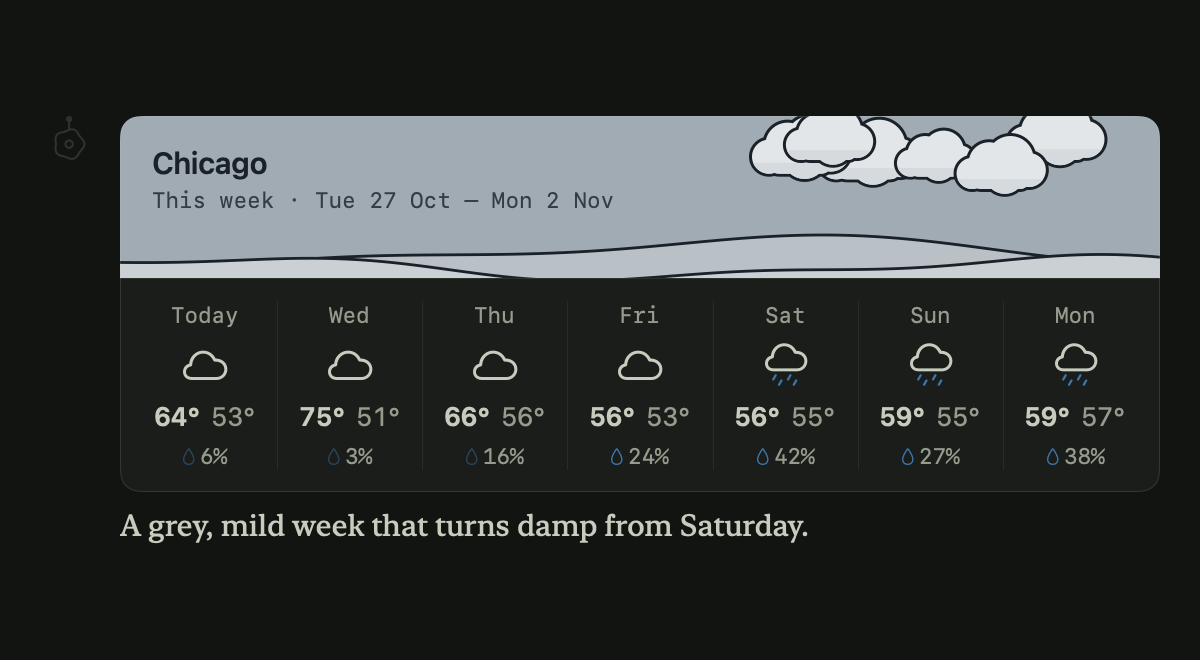
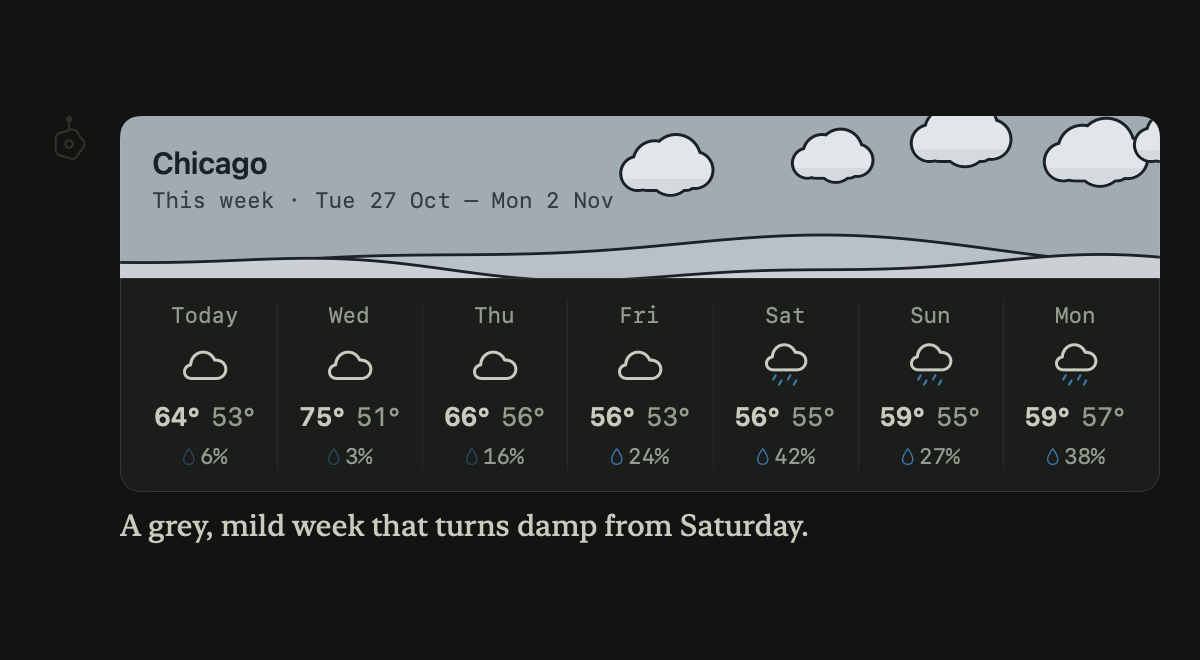
F36: weather card in the tour, AM/PM times on the card

Changed region(s): [[0.4933, 0.1515, 0.9867, 0.303]]

diff --git a/EnigmaTests/WeatherCardTests.swift b/EnigmaTests/WeatherCardTests.swift
@@ -63,7 +63,7 @@ final class WeatherCardTests: XCTestCase {
     XCTAssertEqual([temperature, feelsLike, high, low], [63.1, 62.9, 63.7, 52.8])
     XCTAssertEqual(rainChance, 6)
     XCTAssertEqual(wind, 6.0)
-    XCTAssertEqual(hours.map(\.time), ["16:00", "17:00", "18:00", "19:00", "20:00", "21:00"])
+    XCTAssertEqual(hours.map(\.time), ["4 PM", "5 PM", "6 PM", "7 PM", "8 PM", "9 PM"])
     XCTAssertEqual(card.speed(wind), "6 mph")
     XCTAssertEqual(card.accessibilityLabel, "Chicago, 63 degrees, overcast, high 64, low 53")
   }
@@ -105,8 +105,8 @@ final class WeatherCardTests: XCTestCase {
     XCTAssertEqual(rainChance, 3)
     XCTAssertEqual(amount, 0)
     XCTAssertEqual(wind, 11.0)
-    XCTAssertEqual(sunset, "17:49")
-    XCTAssertEqual(hours.map(\.time), ["06:00", "09:00", "12:00", "15:00", "18:00", "21:00"],
+    XCTAssertEqual(sunset, "5:49 PM")
+    XCTAssertEqual(hours.map(\.time), ["6 AM", "9 AM", "12 PM", "3 PM", "6 PM", "9 PM"],
                    "The forecast's 168 hours cover tomorrow's strip")
     XCTAssertTrue(card.accessibilityLabel.hasPrefix("Chicago, Tomorrow, Wed 28 Oct, overcast, high 75, low 51"))
   }
@@ -425,6 +425,26 @@ final class WeatherCardTests: XCTestCase {
     XCTAssertEqual(chat.messages.last?.weatherCards?.count, 1)
     _ = chat.stopStreaming()
     await engine.release()
+  }
+
+  /// The tour's weather stop shows a card above its example reply, and the character dresses for it.
+  @MainActor
+  func testTheToursWeatherReplyShowsACard() async throws {
+    let root = FileManager.default.temporaryDirectory.appending(path: "WeatherTour-\(UUID())")
+    defer { try? FileManager.default.removeItem(at: root) }
+    let chat = LocalChatViewModel(
+      engine: LlamaCPPModelEngine(installationStore: LocalModelInstallationStore(modelsDirectory: root.appending(path: "models"))),
+      sessionStore: ChatSessionStore(applicationSupportDirectory: root), nativeToolsEnabled: false)
+    var script = TourScript.weather
+    script.phaseDuration = 1
+    let card = try XCTUnwrap(script.weatherCard)
+    XCTAssertTrue(card.caption.hasPrefix("Tomorrow · "))
+    await withCheckedContinuation { done in
+      chat.playTourExchange(TourDemo(prompt: "will it rain in Chicago tomorrow?", script: script), onFinish: { done.resume() })
+    }
+    let reply = try XCTUnwrap(chat.messages.last)
+    XCTAssertEqual(reply.weatherCards, [card])
+    XCTAssertEqual(ConversationTranscript.costume(messages: chat.messages, activity: chat.activity), .sunglasses)
   }
 
   // MARK: The character's costume

diff --git a/Enigma/App/GuidedTour.swift b/Enigma/App/GuidedTour.swift
@@ -390,6 +390,8 @@ struct TourScript: Equatable {
   var phases: [AssistantActivity.Phase]
   var sources: [WebSearchSource] = []
   var places: [MapPlace]? = nil
+  /// Shown above the reply as its words start, as a real forecast's card is.
+  var weatherCard: WeatherCardModel? = nil
   /// How long each activity step shows, in milliseconds.
   var phaseDuration = 900
   /// A revision of the attached selection, for the reply's Revised text card.
@@ -415,9 +417,22 @@ struct TourScript: Equatable {
       MapPlace(id: "tour.adler", name: "Adler Planetarium", coordinate: SearchCoordinate(latitude: 41.8663, longitude: -87.6068), distanceMeters: nil),
     ])
 
-  static let weather = TourScript(
-    reply: "Tomorrow in Chicago looks breezy and mostly sunny: a high of 58° and a low of 44°, with a 10% chance of rain. Bring a jacket for the lakefront. (An example: I check the real forecast once the tour is over.)",
-    phases: [.checkingWeather])
+  /// Computed, so the card's date is always tomorrow's.
+  static var weather: TourScript { TourScript(
+    reply: "Breezy and mostly sunny, with little chance of rain. Bring a jacket for the lakefront. (An example: I check the real forecast once the tour is over.)",
+    phases: [.checkingWeather],
+    weatherCard: WeatherCardModel(
+      place: "Chicago",
+      caption: "Tomorrow · " + WeatherLookup.formatter("EEE d MMM", .current).string(from: .now.addingTimeInterval(86_400)),
+      code: 1, light: .day, units: .us,
+      content: .day(high: 58, low: 44, rainChance: 10, amount: 0, wind: 18, sunset: "4:41 PM", hours: [
+        .init(time: "6 AM", code: 1, isDay: false, temperature: 45, rainChance: 0),
+        .init(time: "9 AM", code: 1, isDay: true, temperature: 49, rainChance: 0),
+        .init(time: "12 PM", code: 1, isDay: true, temperature: 55, rainChance: 5),
+        .init(time: "3 PM", code: 2, isDay: true, temperature: 58, rainChance: 10),
+        .init(time: "6 PM", code: 2, isDay: false, temperature: 53, rainChance: 10),
+        .init(time: "9 PM", code: 1, isDay: false, temperature: 48, rainChance: 5),
+      ]))) }
 
   static let code = TourScript(
     reply: "Chicago’s grid counts out from State and Madison, 800 numbers to a mile:\n\n```python\ndef miles_from_downtown(number: int) -> float:\n    \"\"\"Miles from State and Madison for a Chicago address number.\"\"\"\n    return number / 800\n\nprint(miles_from_downtown(3600))  # 4.5: Addison, by Wrigley Field\n```",

diff --git a/Enigma/Search/WeatherLookup.swift b/Enigma/Search/WeatherLookup.swift
@@ -613,7 +613,9 @@ struct WeatherCardModel: Equatable, Sendable {
     let offset = TimeZone(secondsFromGMT: forecast.utcOffsetSeconds) ?? .gmt
     let local = TimeZone(identifier: forecast.timezone) ?? offset
     let parse = WeatherLookup.formatter("yyyy-MM-dd'T'HH:mm", offset)
-    let clock = WeatherLookup.formatter("HH:mm", local)
+    // "4 PM" on the strip, "5:49 PM" for sunset.
+    let clock = WeatherLookup.formatter("h a", local)
+    let sunsetClock = WeatherLookup.formatter("h:mm a", local)
     func element<T>(_ values: [T?]?, _ index: Int) -> T? {
       guard let values, values.indices.contains(index) else { return nil }
       return values[index]
@@ -686,7 +688,7 @@ struct WeatherCardModel: Equatable, Sendable {
       content = .day(high: high, low: low, rainChance: rainChance,
                      amount: snowy ? element(daily.snowfallSum, first) : element(daily.precipitationSum, first),
                      wind: element(daily.windSpeedMax, first),
-                     sunset: element(daily.sunset, first).flatMap(parse.date(from:)).map(clock.string(from:)), hours: hours)
+                     sunset: element(daily.sunset, first).flatMap(parse.date(from:)).map(sunsetClock.string(from:)), hours: hours)
     }
   }
 

diff --git a/Enigma/LocalInference/LocalChatViewModel.swift b/Enigma/LocalInference/LocalChatViewModel.swift
@@ -2701,7 +2701,10 @@ extension LocalChatViewModel {
       // A cancel wakes the last phase's sleep; the reply must not take the chat back.
       guard !Task.isCancelled else { return }
       activity.apply(.phase(.generating))
-      update({ $0.activity = activity }, id: replyID)
+      update({
+        $0.activity = activity
+        if let card = script.weatherCard { $0.weatherCards = [card] }
+      }, id: replyID)
       state = .streaming
       var text = ""
       let replyText = approved ? script.reply : script.declined ?? script.reply

diff --git a/docs/Web-Search.md b/docs/Web-Search.md
@@ -148,10 +148,13 @@ the details sit on the card's surface, so they follow Paper and Ink.
 - **Today:** now, feels like, high and low, chance of rain and wind, and the
   next 6 hours.
 - **One later day** (tomorrow, Friday): that day's high and low, its chance of
-  rain (or snow, with the amount in cm or inches), wind, sunset, and 06:00 to
-  21:00 in 3-hour steps.
+  rain (or snow, with the amount in cm or inches), wind, sunset, and 6 AM to
+  9 PM in 3-hour steps. Times read with AM and PM ("4 PM", "5:49 PM").
 - **Several days** ("this weekend", "this week"): one column per day, which
   fits 7 days in the compact panel.
+
+The tour's weather stop shows an example card for Chicago tomorrow above its
+example reply (`TourScript.weather`), so the character dresses for it there too.
 
 Capable models pick the days with `get_weather`'s dates; on the wording route
 they come from the question's time words: "tomorrow", "this weekend", "this
